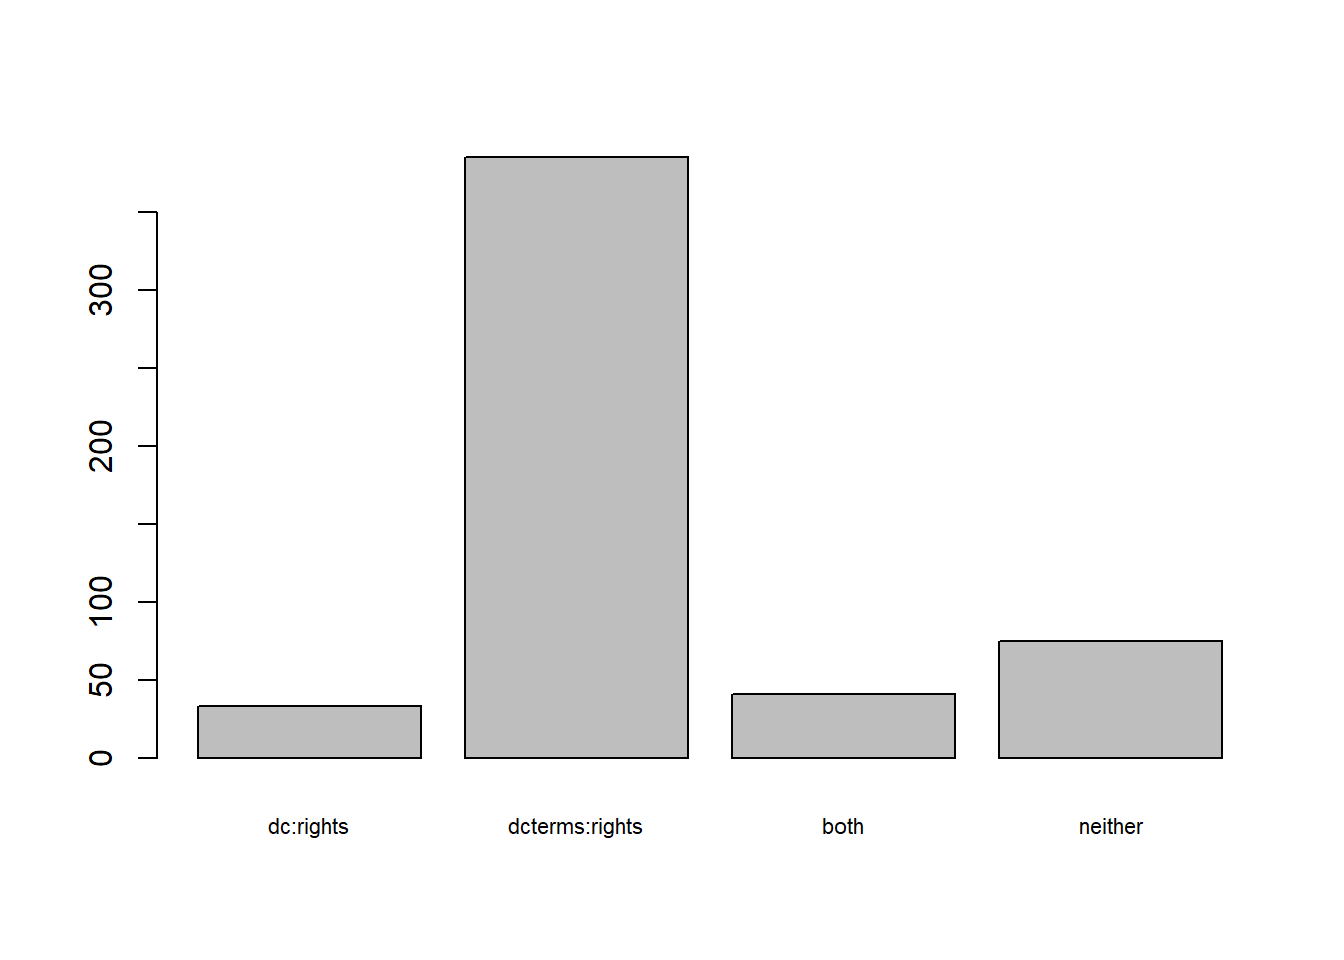
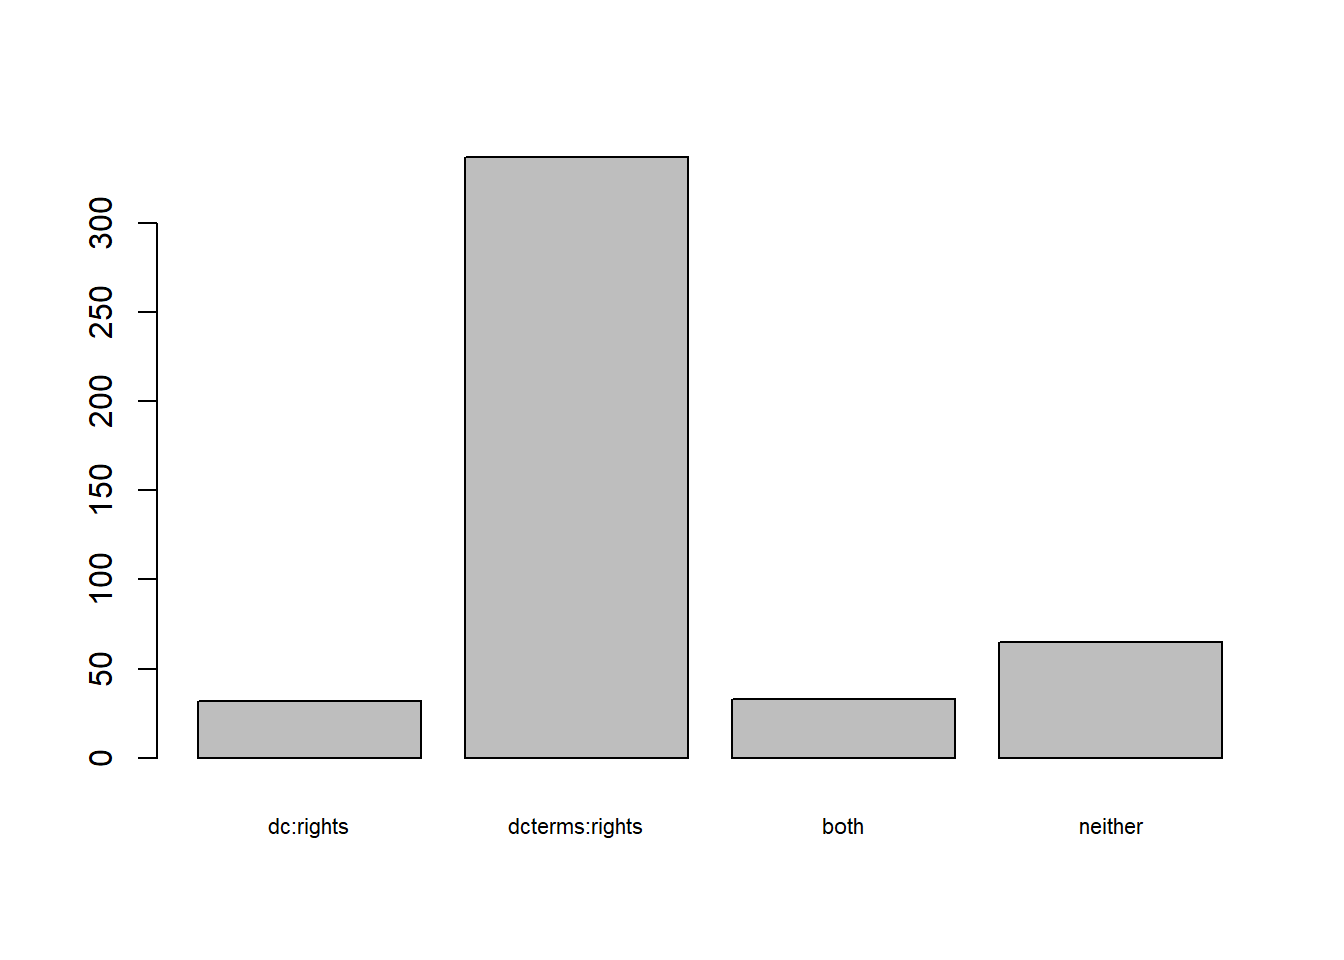
Data with ac:attributionLinkUrl

diff --git a/TDWG-AC-Use-of-rights-GBIF.html b/TDWG-AC-Use-of-rights-GBIF.html
@@ -11,7 +11,7 @@
 
 <meta name="author" content="Ed Baker" />
 
-<meta name="date" content="2024-10-17" />
+<meta name="date" content="2024-10-18" />
 
 <title>Use of TGWG Audiovisual Core terms relating to rights on GBIF</title>
 
@@ -165,7 +165,7 @@ pre code {
 <h1 class="title toc-ignore">Use of TGWG Audiovisual Core terms relating
 to rights on GBIF</h1>
 <h4 class="author">Ed Baker</h4>
-<h4 class="date">2024-10-17</h4>
+<h4 class="date">2024-10-18</h4>
 
 </div>
 
@@ -177,7 +177,7 @@ standard includes terms for describing rights information for media
 items. In response to issues raised on the AC GitHub repository, this
 analysis was conducted to determine the extent to which these terms are
 used in media items on GBIF.</p>
-<p>The data represents 77,668,167 media items from 534 datasets provided
+<p>The data represents 73,422,190 media items from 467 datasets provided
 by GBIF. Datasets are included only if they make use of the AC
 extension.</p>
 </div>
@@ -200,7 +200,9 @@ precise terms of use).</li>
 organisation(s) required by the supplier of the item to be used when
 published. This is a free-text field.</li>
 <li><code>xmpRights:owner</code>: A list of the names of the owners of
-the copyright</li>
+the copyright.</li>
+<li><code>ac:attributionLinkURL</code>: The URL where information about
+ownership, attribution, etc. of the resource may be found..</li>
 </ul>
 </div>
 <div id="term-usage-by-dataset" class="section level2">
@@ -208,14 +210,14 @@ the copyright</li>
 <div id="number-of-datasets-using-each-term" class="section level3">
 <h3>Number of datasets using each term</h3>
 <p>The following terms are not used in any of the datasets:
-<code>xmpRights:owner</code>.</p>
+<code>ac:attributionLinkURL</code>.</p>
 <p><img src="TDWG-AC-Use-of-rights-GBIF_files/figure-html/unnamed-chunk-2-1.png" width="672" /></p>
 </div>
 <div id="datasets-usings-dcrights-and-dctermsrights"
 class="section level3">
 <h3>Datasets usings dc:rights and dcterms:rights</h3>
 <p><img src="TDWG-AC-Use-of-rights-GBIF_files/figure-html/unnamed-chunk-3-1.png" width="672" /></p>
-<p>75 datasets (representing 1,745,564 media items) use neither
+<p>65 datasets (representing 1,683,194 media items) use neither
 <code>dc:rights</code> nor <code>dcterms:rights</code>. One or other of
 these terms are required by the AC standard, so a significant number of
 datasets are potentially not compliant.</p>
